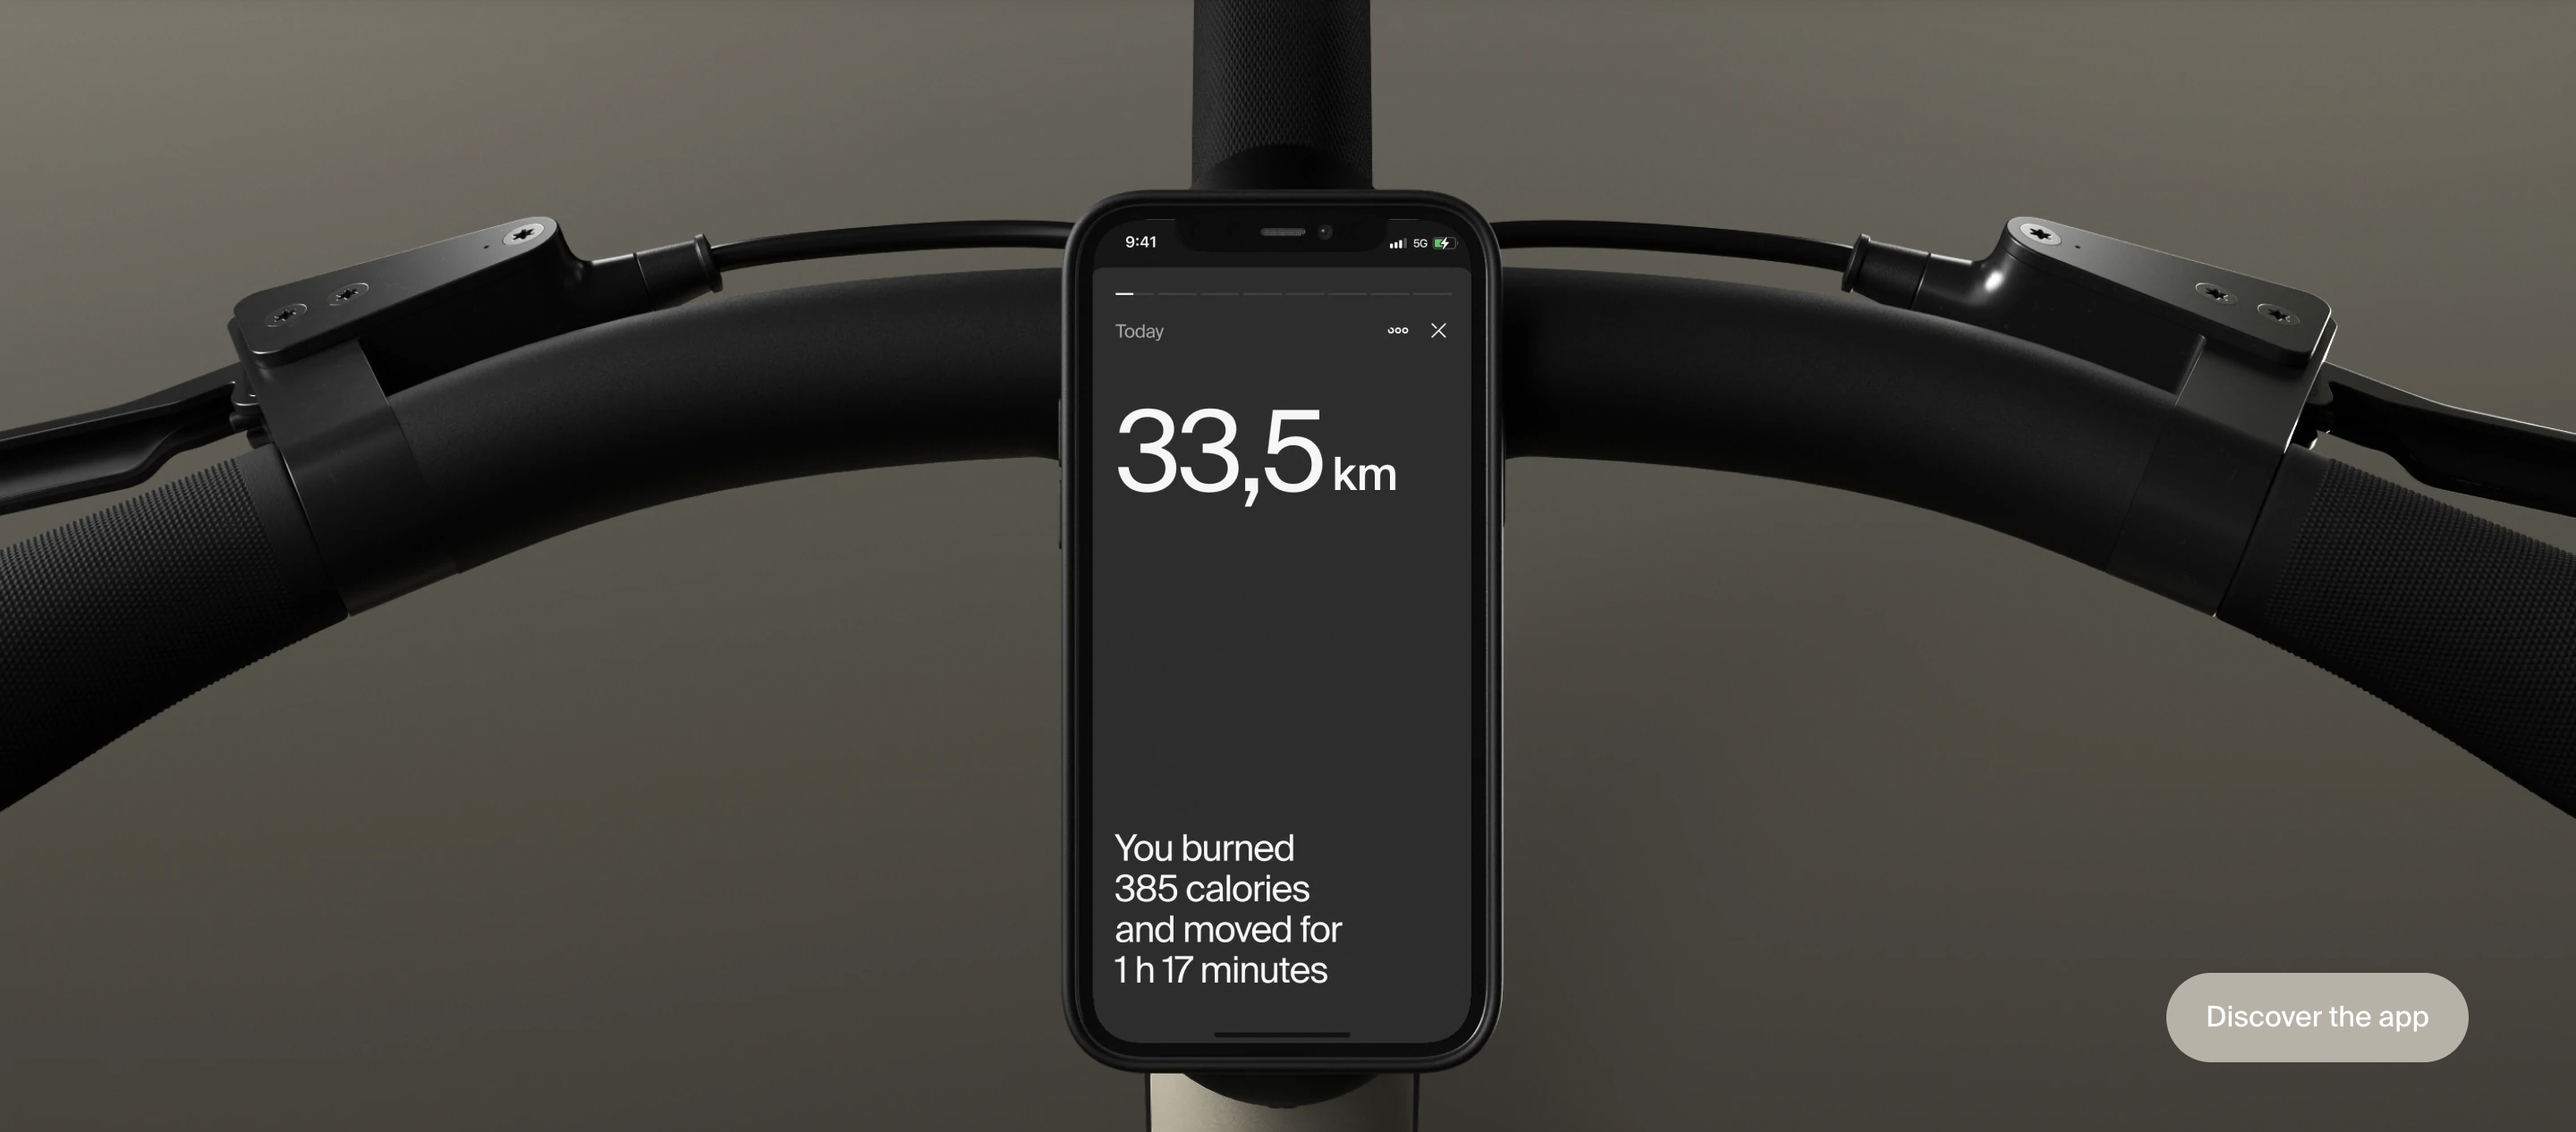
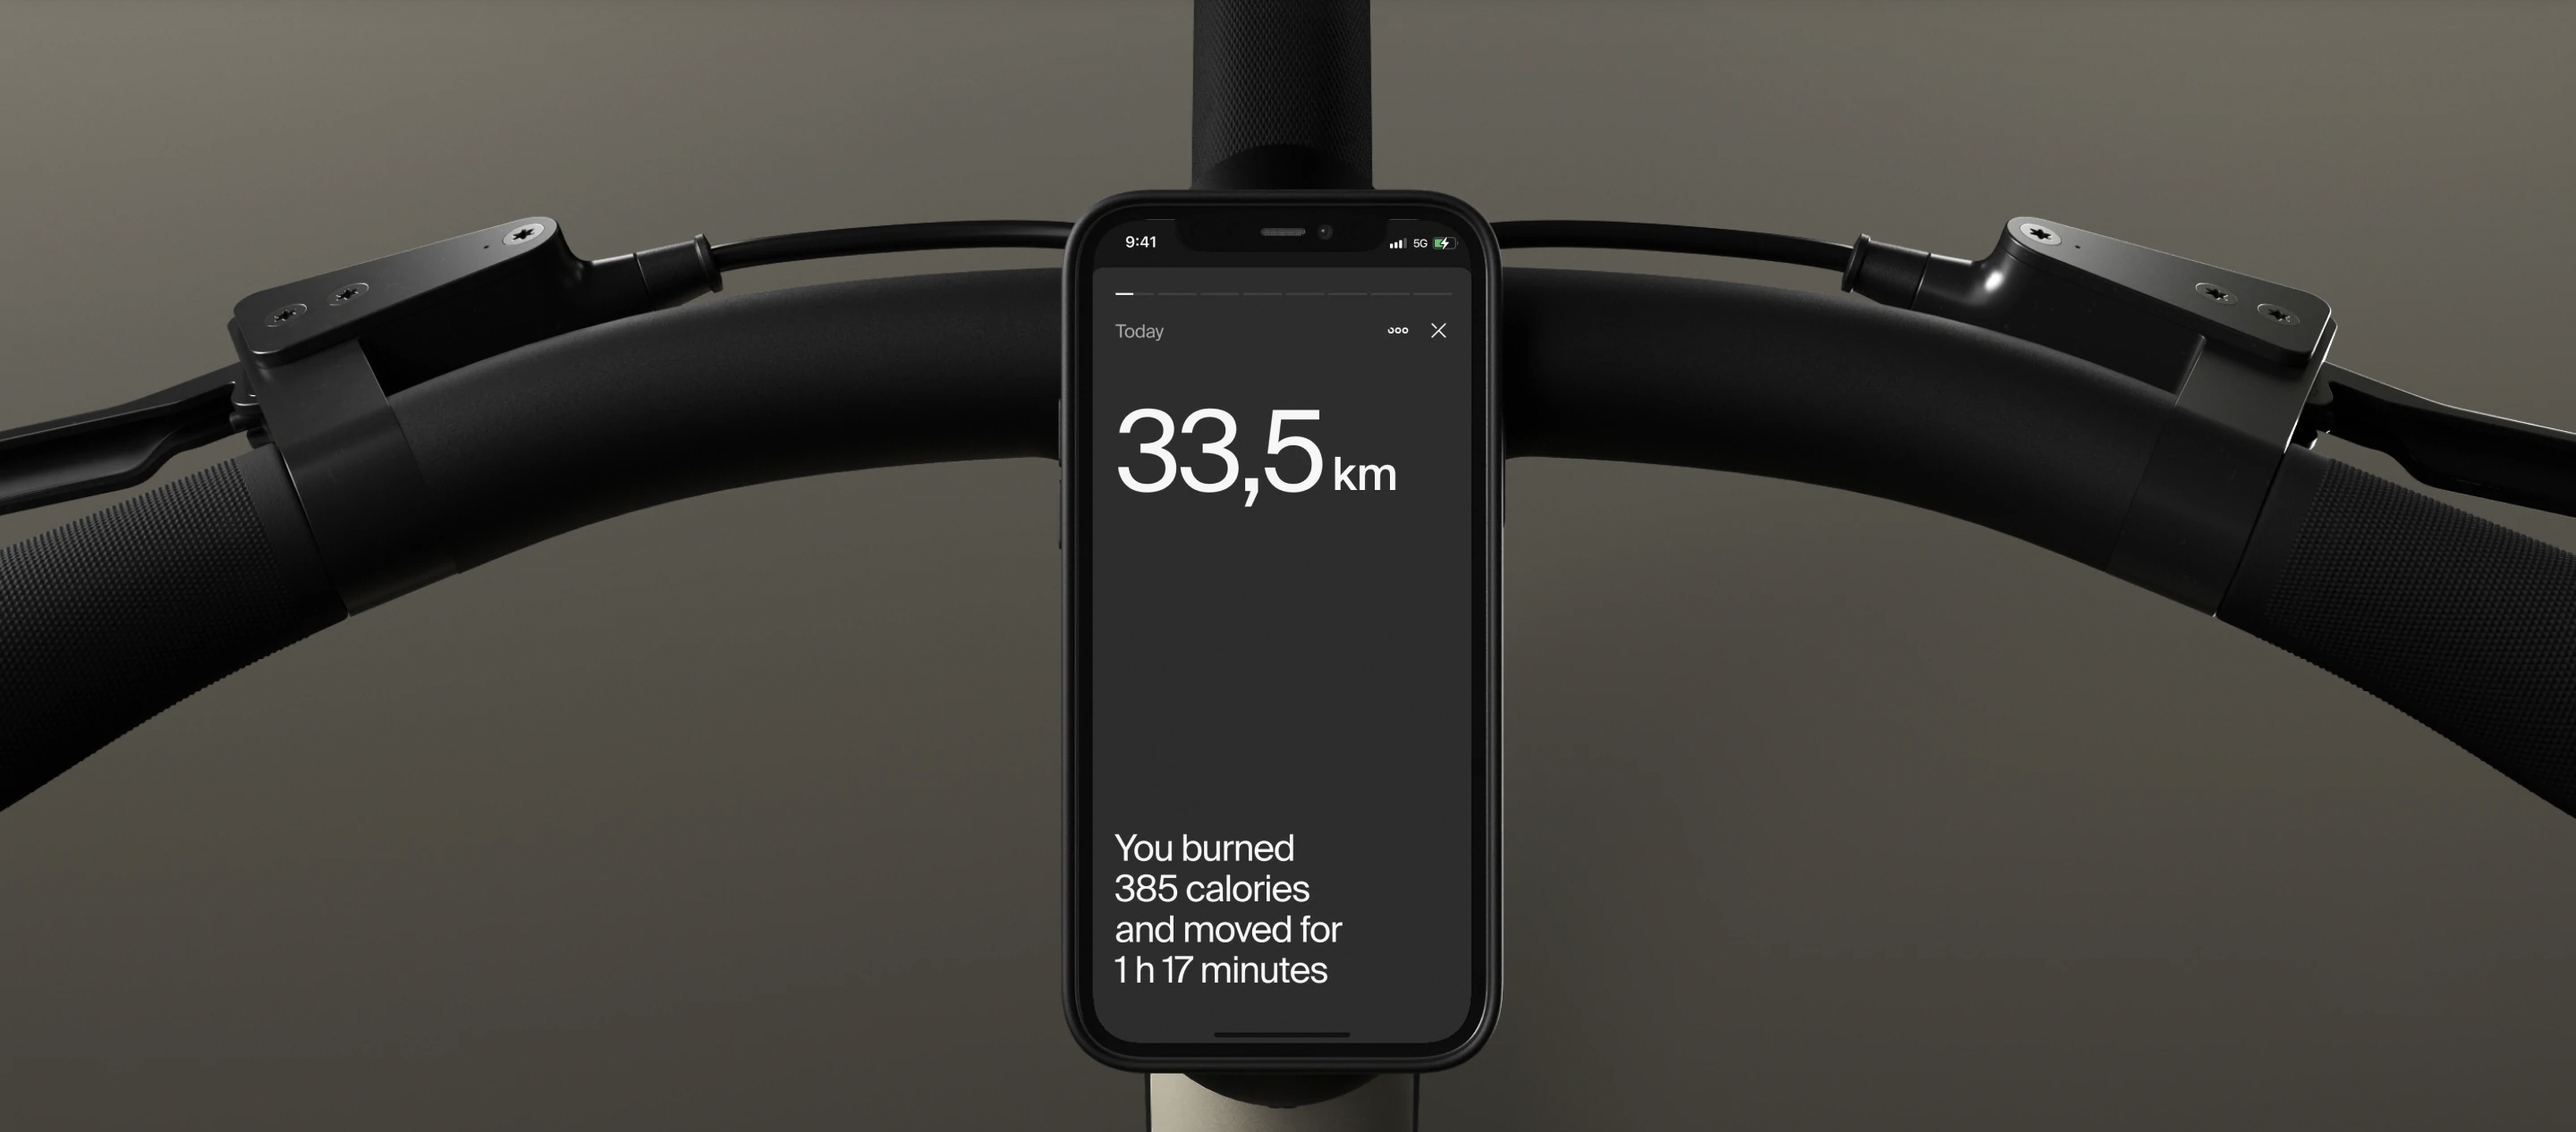
Fix final mentor feedback

Changed region(s): [[0.8438, 0.8318, 0.9688, 0.955]]

diff --git a/src/styles/main.scss b/src/styles/main.scss
@@ -112,6 +112,8 @@ body {
 }
 
 .menu {
+  --menu-content-width: calc(100% - 40px);
+
   position: fixed;
   inset: 0;
   z-index: 10;
@@ -126,7 +128,7 @@ body {
   flex-direction: column;
 
   box-sizing: border-box;
-  width: 280px;
+  width: var(--menu-content-width);
   margin: 0 auto;
   padding: 110px 0 0;
 }
@@ -136,7 +138,7 @@ body {
 
   height: 22px;
   margin: 0 0 32px;
-
+  transition: color 0.3s ease;
   color: #1d1d1d;
   text-decoration: none;
 
@@ -155,7 +157,7 @@ body {
   width: 155px;
   height: 27px;
   margin: 40px 0 0;
-
+  transition: color 0.3s ease;
   color: #1d1d1d;
   text-decoration: none;
 
@@ -170,7 +172,7 @@ body {
 
 .menu__test-ride {
   display: block;
-
+  transition: color 0.3s ease;
   width: 136px;
   height: 16px;
   margin-top: 16px;
@@ -189,15 +191,16 @@ body {
 
 .menu__phone,
 .menu__test-ride {
-  width: 280px;
+  width: var(--menu-content-width);
   margin-left: auto;
   margin-right: auto;
+  transition: color 0.3s ease;
 }
 
 .menu__close {
   position: absolute;
   top: 24px;
-  right: max(20px, calc((100% - 280px) / 2));
+  right: calc((100% - var(--menu-content-width)) / 2);
 
   width: 24px;
   height: 24px;
@@ -213,7 +216,7 @@ body {
 .menu__logo {
   position: absolute;
   top: 24px;
-  left: max(20px, calc((100% - 280px) / 2));
+  left: calc((100% - var(--menu-content-width)) / 2);
 }
 
 .menu__logo img {
@@ -225,6 +228,12 @@ body {
 
 .menu__link:last-child {
   margin-bottom: 0;
+}
+
+.menu__link:hover,
+.menu__phone:hover,
+.menu__test-ride:hover {
+  color: #7e7e83;
 }
 
 .about {
@@ -854,6 +863,10 @@ body {
   }
 }
 
+aside.menu {
+  --menu-content-width: 600px;
+}
+
 /* desktop */
 @media (min-width: 1260px) {
   .header__top {
@@ -906,6 +919,10 @@ body {
     width: 100%;
     height: auto;
   }
+}
+
+body .menu {
+  --menu-content-width: 1020px;
 }
 
 @media (min-width: 744px) {
